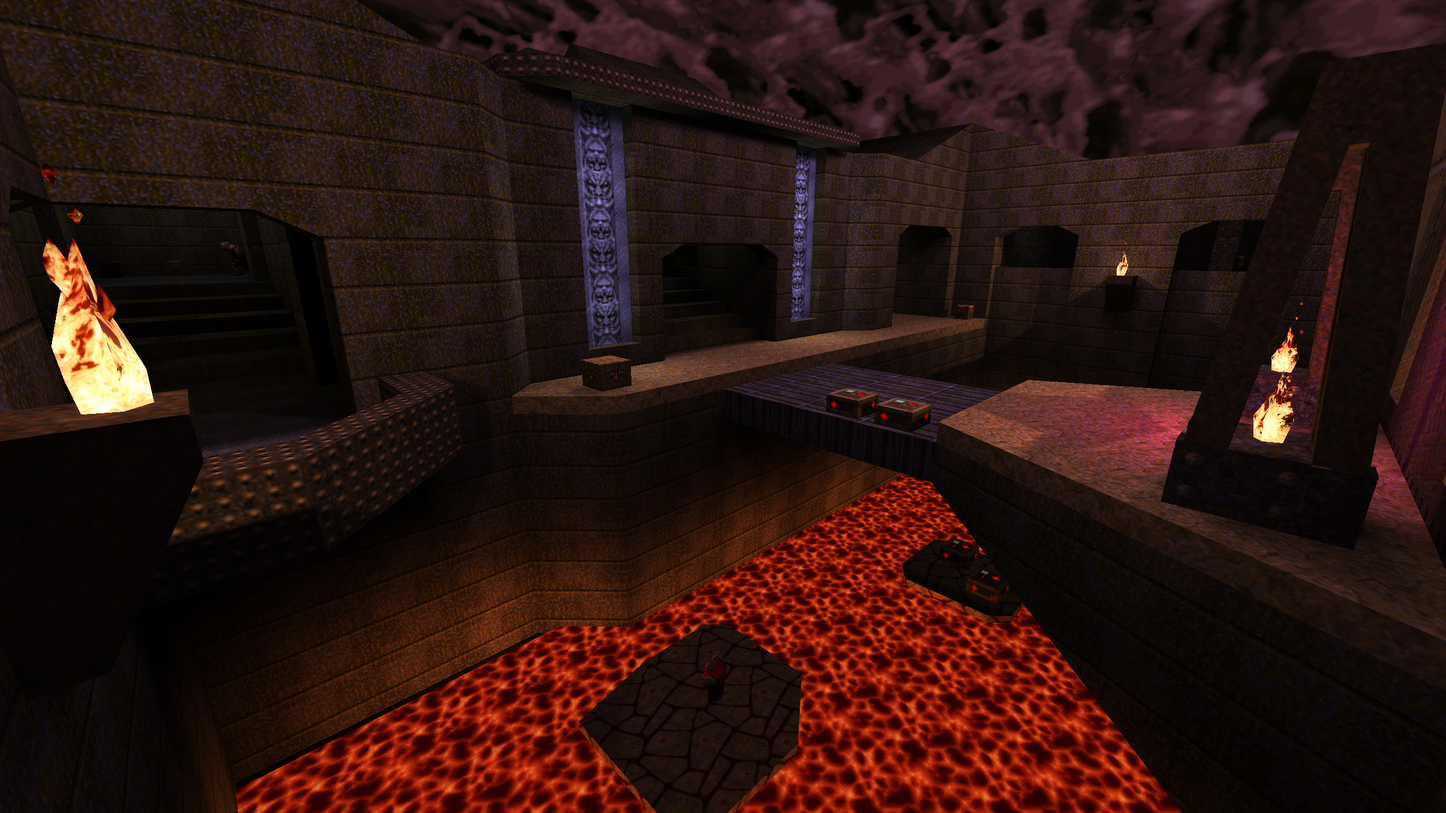
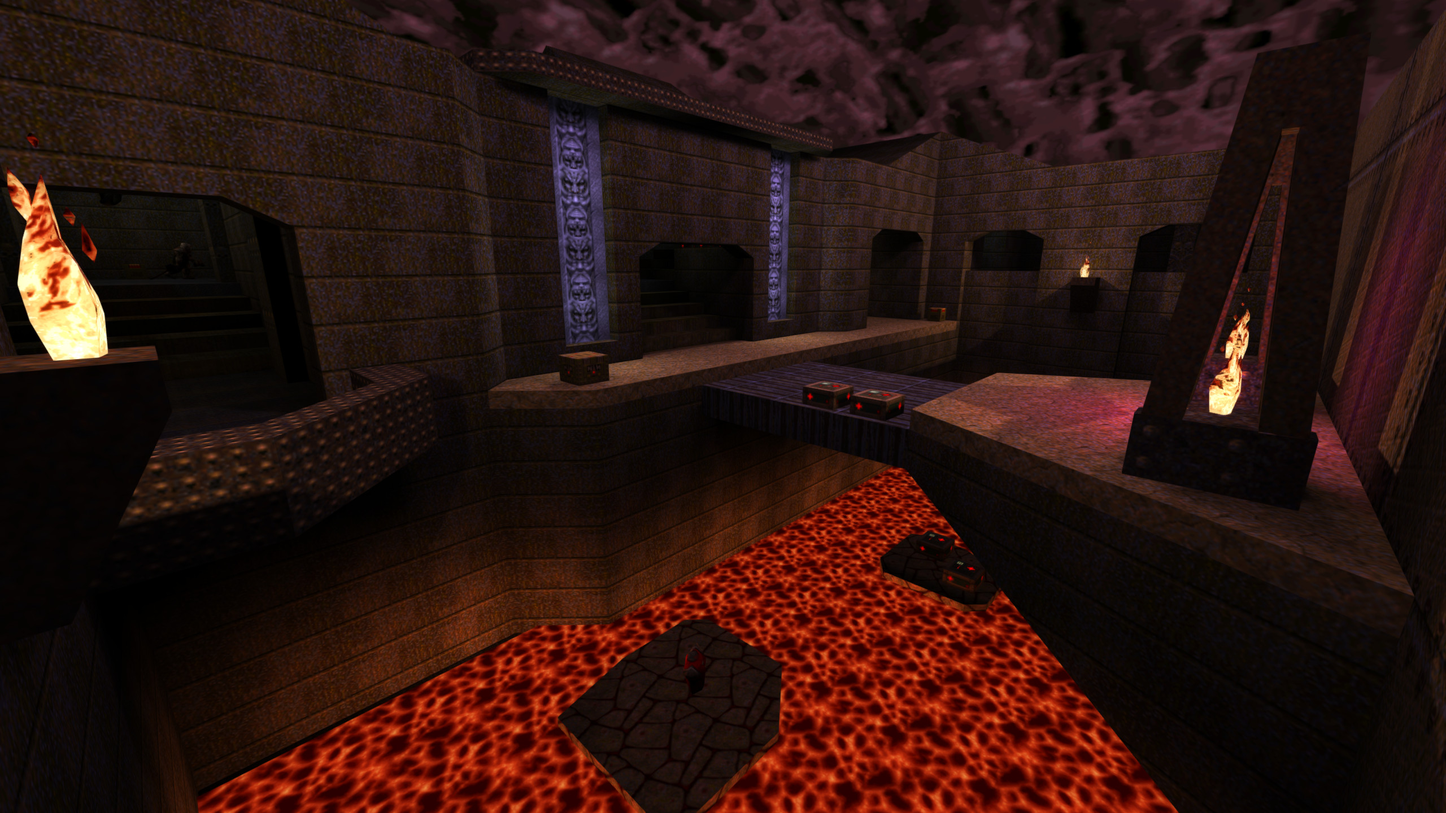
Remove the website. Add image to readme.

diff --git a/README.md b/README.md
@@ -1,7 +1,9 @@
 # rtlights4quake
 A collection of rtlights and cubemaps for Quake engines that support real-time lighting files.
 
-## How To
+[![e3m6](docs/assets/e3m6_.jpg)](docs/assets/e3m6.jpg)
+
+## Installation
 Getting rtlights to work is a fairly straight forward process but requires a few steps.
 
 ### Files
